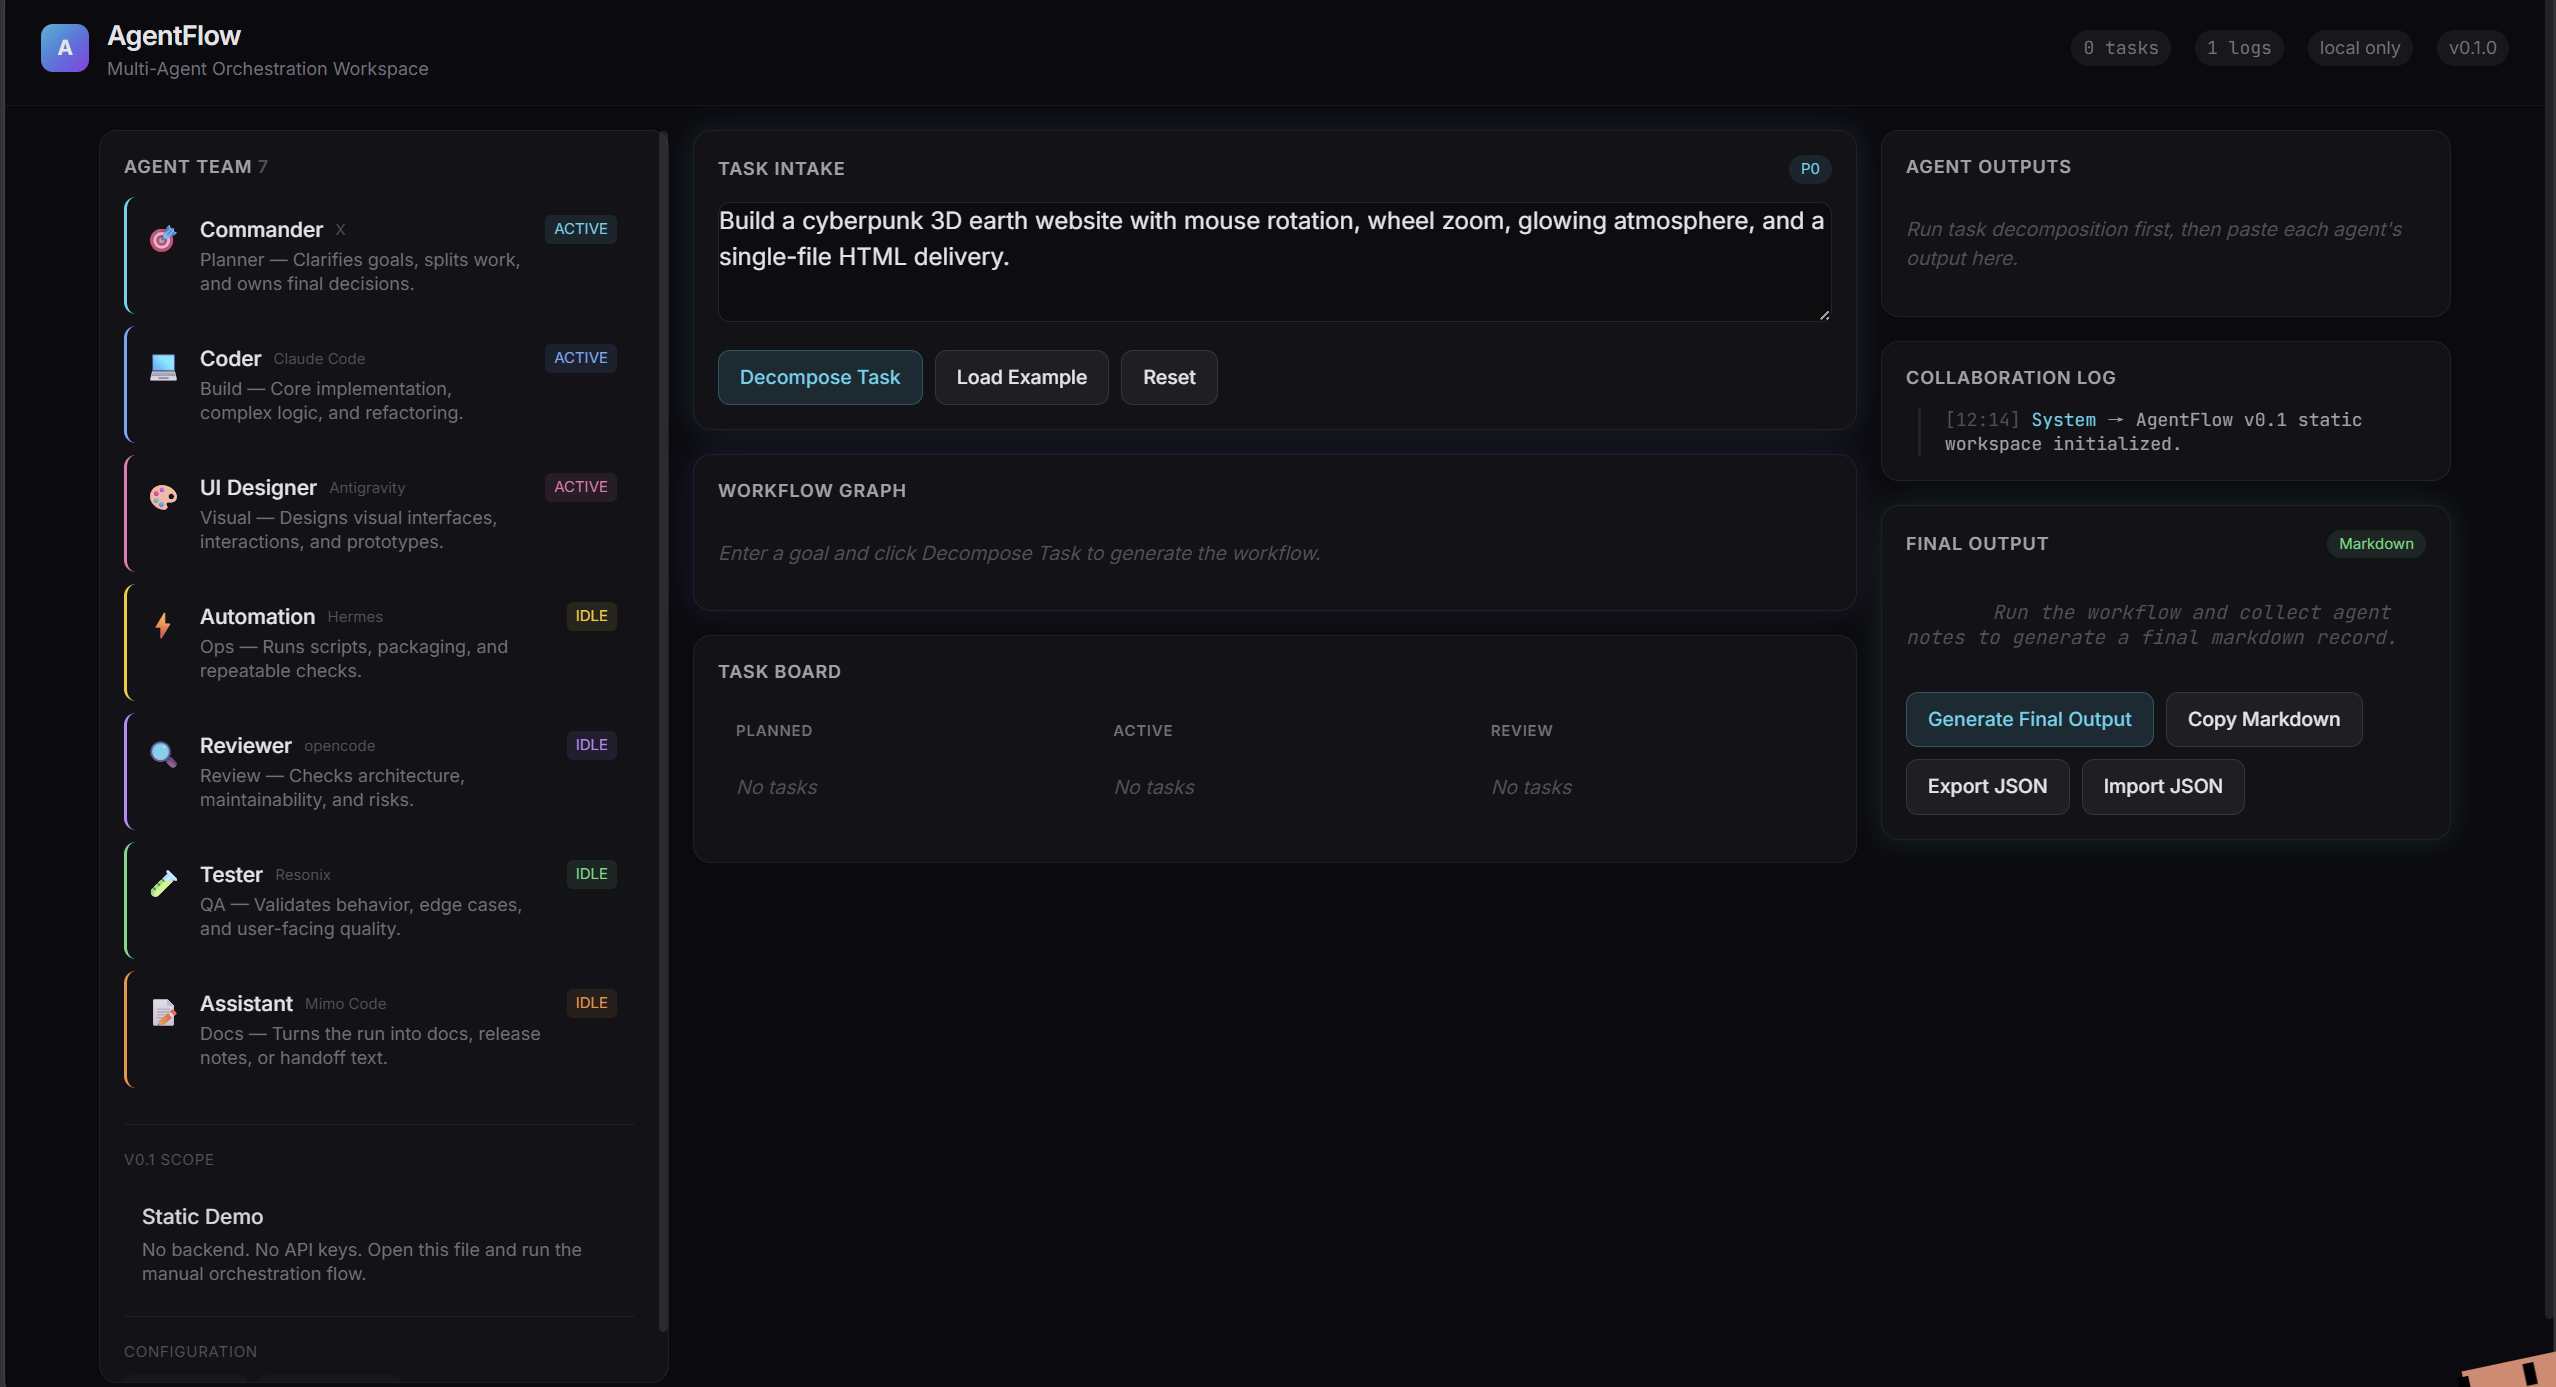
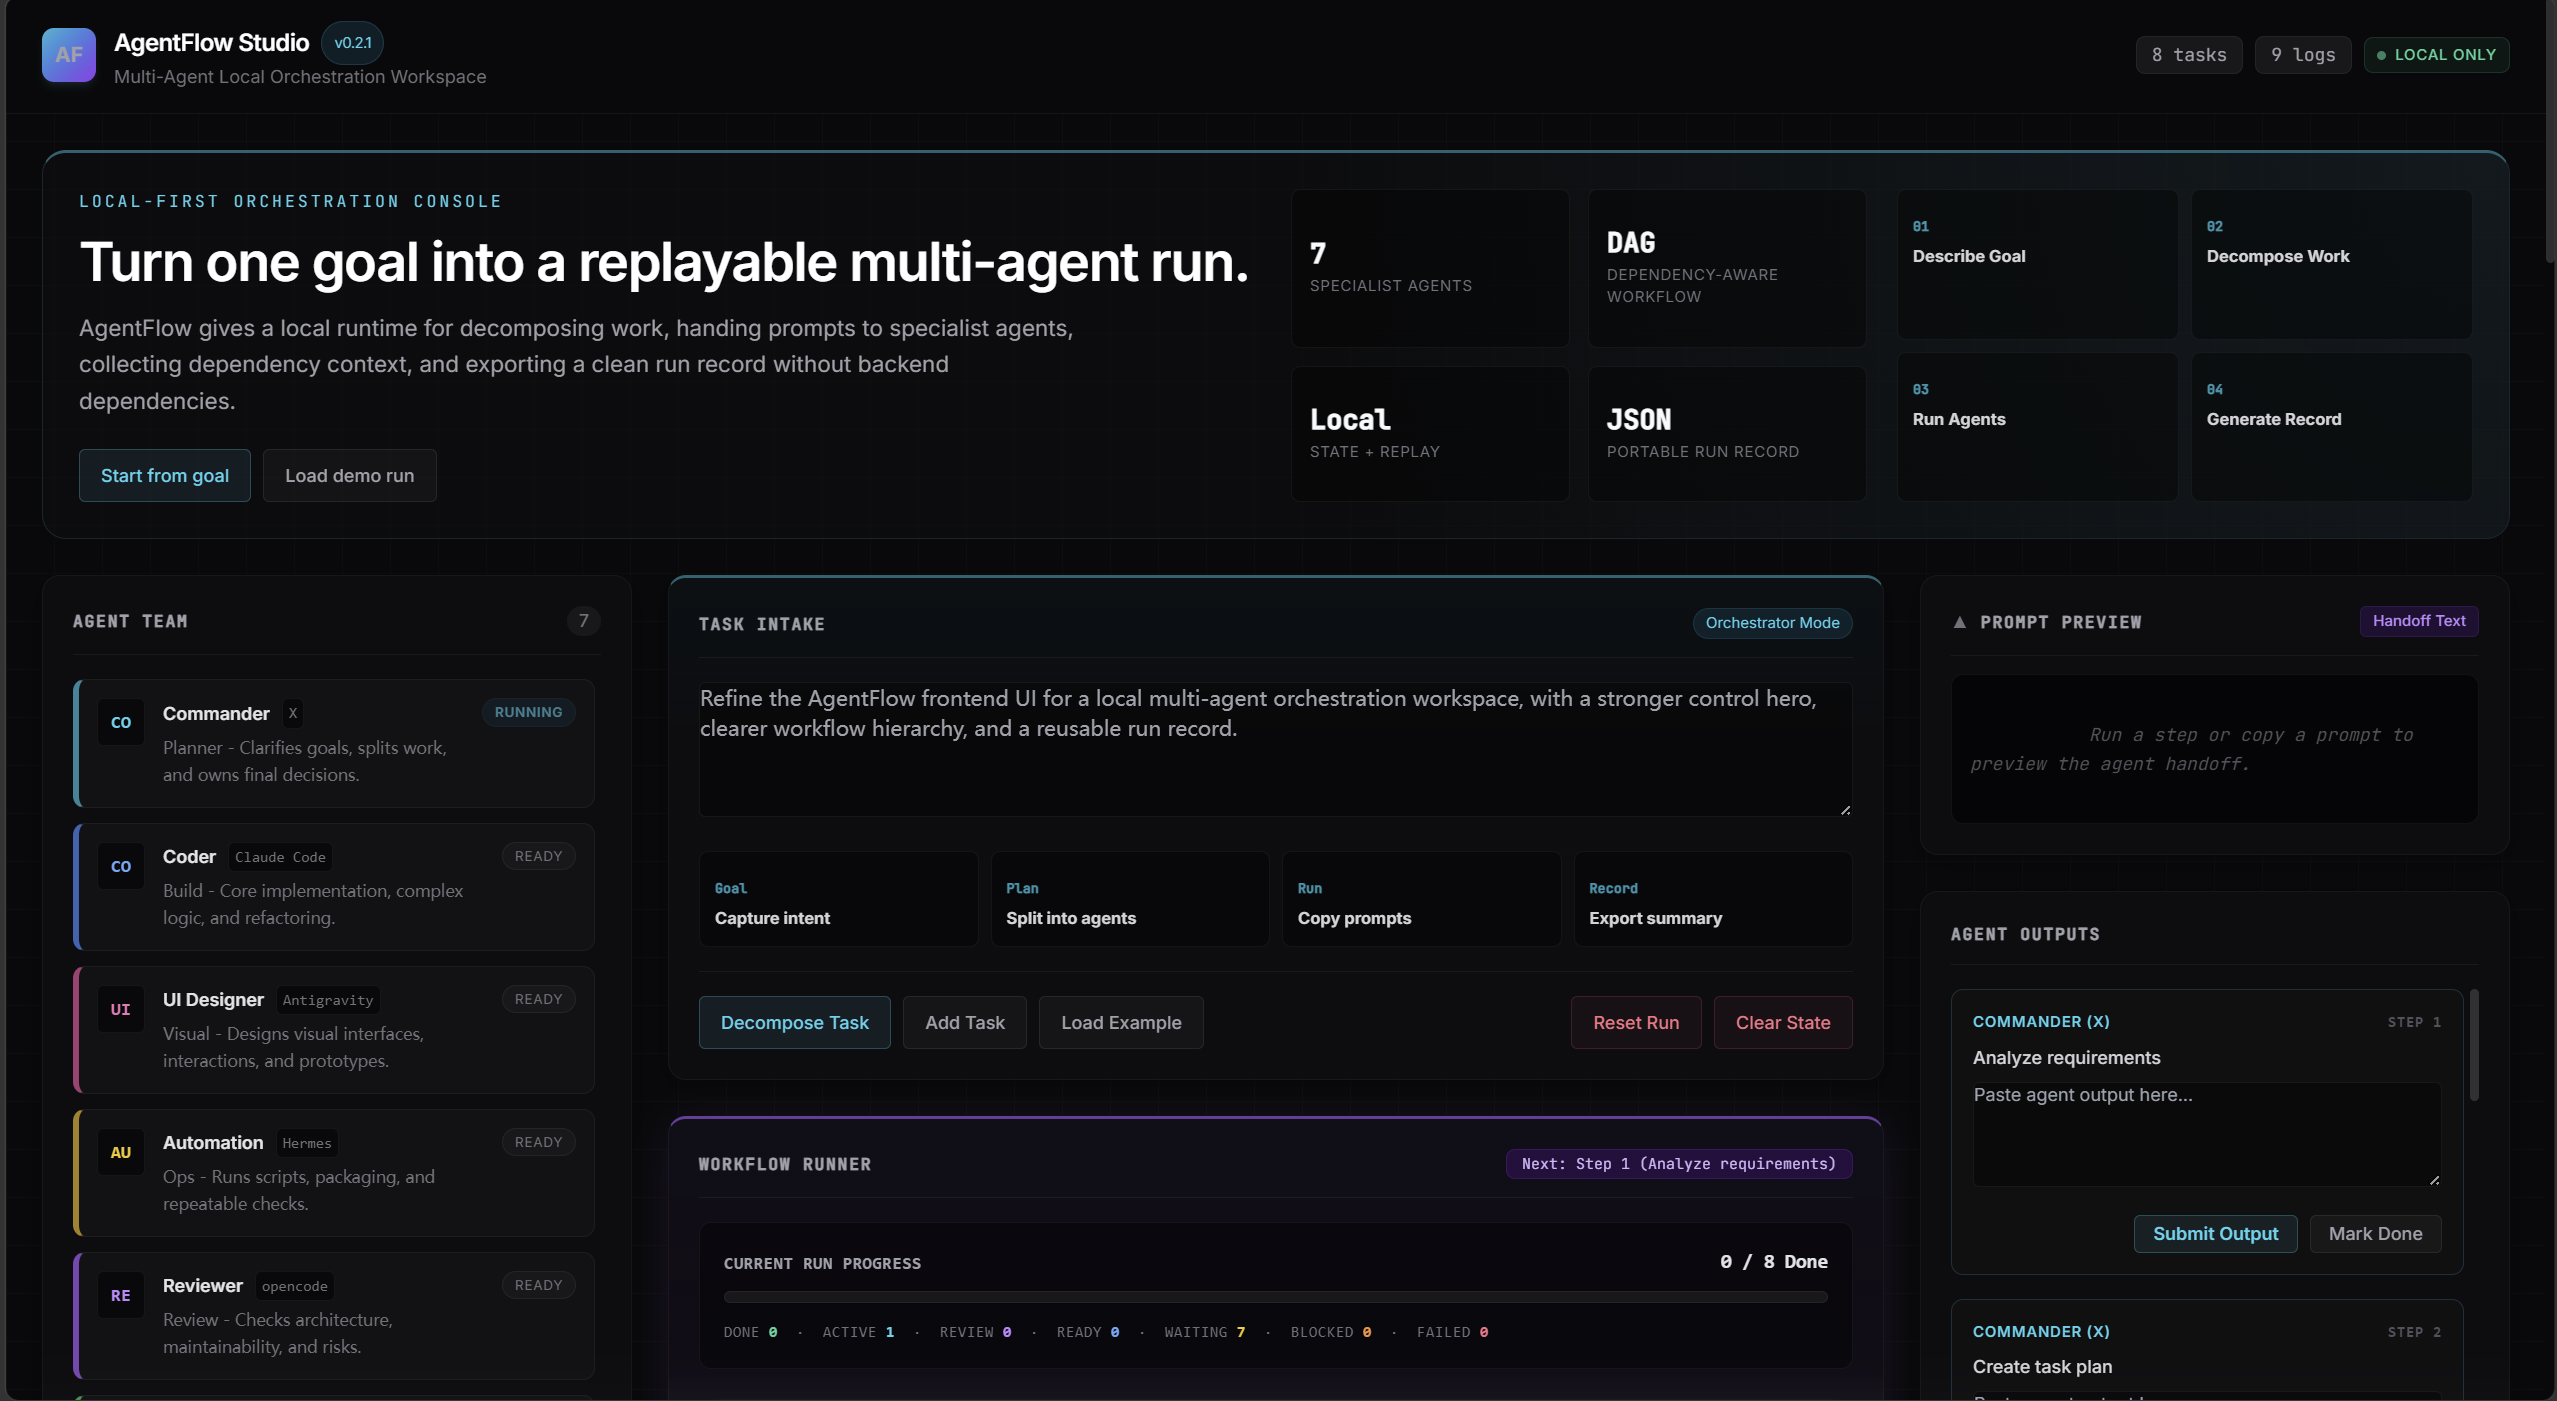
docs: update v0.2.1 preview and release copy

diff --git a/README.md b/README.md
@@ -5,7 +5,7 @@
 
 AgentFlow helps you coordinate multiple AI coding agents, automation agents, reviewers, and testers in a structured workflow. Instead of asking one model to do everything, AgentFlow decomposes complex tasks into subtasks and routes them to specialized agents — with a visual workspace so you can see what's happening.
 
-> **Current status: v0.2.0 Local Runtime** — open `index.html` in your browser to run a persistent local agent workflow. No backend, no database, no API keys, and no build step required. Backend and API integrations are planned for later milestones. See [ROADMAP.md](./ROADMAP.md).
+> **Latest release: v0.2.1 Dependency-aware Local Runtime** — open `index.html` in your browser to run a persistent local agent workflow with DAG-based task dependencies, Ready / Waiting step states, dependency context prompts, and portable RunRecord JSON import/export. No backend, no database, no API keys, and no build step required. Backend and API integrations are planned for later milestones. See [ROADMAP.md](./ROADMAP.md).
 
 ## Live Demo
 
@@ -39,14 +39,14 @@ Open `index.html` and you can:
 - ✍️ **Enter a task goal** — type your request or load the 3D Earth example
 - 🔀 **Decompose tasks** — the Commander breaks your request into subtasks
 - 📋 **Track the Task Board** — move subtasks through Planned, Active, Review, Done, Blocked, and Failed
-- 🧭 **Run workflow steps** — run one step at a time and track the current step
-- 📋 **Copy Agent Prompts** — generate structured prompts for external tools
+- 🧭 **Run dependency-aware workflow steps** — unlock steps only when their dependencies are complete
+- 📋 **Copy Agent Prompts** — generate structured prompts with dependency context for external tools
 - 📝 **Fill in Agent Outputs** — paste results from your real AI tools manually
 - 💾 **Restore local state** — refresh the page without losing the current run
 - 📊 **Watch the Workflow Graph** — Mermaid diagram updates live
 - 📜 **See the Collaboration Log** — every important action is timestamped and structured
 - ✅ **Generate Final Output** — synthesize all results into Markdown
-- 📋 **Copy / Export / Import** — save, restore, and replay run records
+- 📋 **Copy / Export / Import** — save, validate, restore, and replay RunRecord JSON files
 
 ---
 
@@ -96,13 +96,13 @@ start index.html       # Windows
 xdg-open index.html    # Linux
 ```
 
-That's it. No `npm install`, no `pip install`, no API keys. v0.2.0 is a self-contained local runtime.
+That's it. No `npm install`, no `pip install`, no API keys. v0.2.1 is a self-contained dependency-aware local runtime.
 
-> **Note:** v0.2.0 uses Tailwind CDN and Mermaid CDN for convenience. An internet connection is required for full styling and diagrams. The runtime state itself is local and stored in your browser.
+> **Note:** v0.2.1 uses Tailwind CDN and Mermaid CDN for convenience. An internet connection is required for full styling and diagrams. The runtime state itself is local and stored in your browser.
 
 ---
 
-## Project Structure (v0.2.0)
+## Project Structure (v0.2.1)
 
 ```text
 agentflow-studio/
@@ -125,7 +125,7 @@ agentflow-studio/
     └── 3d-earth-demo/
 ```
 
-> Backend apps and packages are intentionally deferred to later milestones. v0.2.0 remains a single-file local runtime.
+> Backend apps and packages are intentionally deferred to later milestones. v0.2.1 remains a single-file local runtime.
 
 ---
 
@@ -174,7 +174,8 @@ steps:
 | Version | Goal | Status |
 |---------|------|--------|
 | v0.1.0 | Static demo — agent list, task board, mock workflow | ✅ Complete |
-| v0.2.0 | Local Runtime — localStorage, state machine, prompt handoff, run replay | 🟢 Active |
+| v0.2.0 | Local Runtime — localStorage, state machine, prompt handoff, run replay | ✅ Complete |
+| v0.2.1 | Dependency-aware Local Runtime — DAG dependencies, Ready / Waiting states, dependency context prompts, RunRecord validation | 🟢 Active |
 | v0.3.0 | Agent Protocol — standardized task input/output schema | 📋 Planned |
 | v0.4.0 | API integration — backend storage and real model adapters | 📋 Planned |
 | v0.5.0 | Review & test loop — automated code review and QA | 📋 Planned |